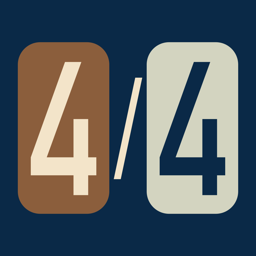
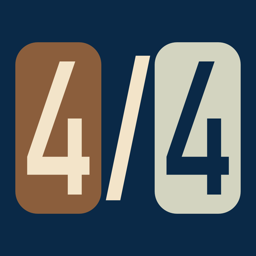
Prepare Metronome Perfect for App Store release
Redraw the icon with a slash matching the 4s, support iOS 18 and newer,
set the home-screen name, declare no non-exempt encryption, and add the
privacy and support pages, store listing text and screenshots.

diff --git a/tools/make-icon.swift b/tools/make-icon.swift
@@ -1,0 +1,69 @@
+// Draws the app icon (light, dark and tinted) into the asset catalog.
+// Run from the project folder: swift tools/make-icon.swift Metronome/Assets.xcassets/AppIcon.appiconset
+
+import AppKit
+
+func color(_ hex: UInt32) -> NSColor {
+    NSColor(srgbRed: CGFloat((hex >> 16) & 0xFF) / 255, green: CGFloat((hex >> 8) & 0xFF) / 255, blue: CGFloat(hex & 0xFF) / 255, alpha: 1)
+}
+
+/// Draws `text` in DIN Alternate, the app's lettering, stretched to `size` and centred in `rect`.
+func glyph(_ text: String, size: CGSize, in rect: CGRect, color c: NSColor) {
+    let font = CTFontCreateWithName("DINAlternate-Bold" as CFString, 400, nil)
+    var unichars = Array(text.utf16), glyphs = [CGGlyph](repeating: 0, count: unichars.count)
+    CTFontGetGlyphsForCharacters(font, &unichars, &glyphs, unichars.count)
+    let path = CTFontCreatePathForGlyph(font, glyphs[0], nil)!
+    let bounds = path.boundingBoxOfPath
+    var transform = CGAffineTransform(translationX: rect.midX - size.width / 2, y: rect.midY - size.height / 2)
+        .scaledBy(x: size.width / bounds.width, y: size.height / bounds.height)
+        .translatedBy(x: -bounds.minX, y: -bounds.minY)
+    let ctx = NSGraphicsContext.current!.cgContext
+    ctx.addPath(path.copy(using: &transform)!)
+    ctx.setFillColor(c.cgColor)
+    ctx.fillPath()
+}
+
+func render(_ name: String, background: UInt32, tileTop: UInt32, glyphTop: UInt32, tileBottom: UInt32, glyphBottom: UInt32, slash: UInt32) {
+    let size = 1024
+    let rep = NSBitmapImageRep(bitmapDataPlanes: nil, pixelsWide: size, pixelsHigh: size, bitsPerSample: 8, samplesPerPixel: 4, hasAlpha: true, isPlanar: false, colorSpaceName: .deviceRGB, bytesPerRow: 0, bitsPerPixel: 0)!
+    NSGraphicsContext.saveGraphicsState()
+    NSGraphicsContext.current = NSGraphicsContext(bitmapImageRep: rep)
+    color(background).setFill()
+    CGRect(x: 0, y: 0, width: size, height: size).fill()
+
+    // Two number tiles with room between them for the slash (y is from the bottom here).
+    let tileWidth: CGFloat = 345
+    let top = CGRect(x: 60, y: 168, width: tileWidth, height: 688)
+    let bottom = CGRect(x: CGFloat(size) - 60 - tileWidth, y: 168, width: tileWidth, height: 688)
+    color(tileTop).setFill()
+    NSBezierPath(roundedRect: top, xRadius: 90, yRadius: 90).fill()
+    color(tileBottom).setFill()
+    NSBezierPath(roundedRect: bottom, xRadius: 90, yRadius: 90).fill()
+    let digit = CGSize(width: 250, height: 534)
+    glyph("4", size: digit, in: top, color: color(glyphTop))
+    glyph("4", size: digit, in: bottom, color: color(glyphBottom))
+
+    // The slash: as thick as the 4s' strokes and a little taller than them, as in a printed time signature.
+    let stroke: CGFloat = 58, height: CGFloat = 580, run: CGFloat = 120
+    let mid = CGPoint(x: CGFloat(size) / 2, y: top.midY)
+    let path = NSBezierPath()
+    path.move(to: CGPoint(x: mid.x - run / 2 - stroke / 2, y: mid.y - height / 2))
+    path.line(to: CGPoint(x: mid.x - run / 2 + stroke / 2, y: mid.y - height / 2))
+    path.line(to: CGPoint(x: mid.x + run / 2 + stroke / 2, y: mid.y + height / 2))
+    path.line(to: CGPoint(x: mid.x + run / 2 - stroke / 2, y: mid.y + height / 2))
+    path.close()
+    color(slash).setFill()
+    path.fill()
+
+    NSGraphicsContext.restoreGraphicsState()
+    // Icons must be opaque.
+    let cg = rep.cgImage!
+    let ctx = CGContext(data: nil, width: size, height: size, bitsPerComponent: 8, bytesPerRow: 0, space: CGColorSpace(name: CGColorSpace.sRGB)!, bitmapInfo: CGImageAlphaInfo.noneSkipLast.rawValue)!
+    ctx.draw(cg, in: CGRect(x: 0, y: 0, width: size, height: size))
+    let out = NSBitmapImageRep(cgImage: ctx.makeImage()!)
+    try! out.representation(using: .png, properties: [:])!.write(to: URL(fileURLWithPath: CommandLine.arguments[1] + "/" + name))
+}
+
+render("AppIcon.png", background: 0x0A2947, tileTop: 0x8B5E3C, glyphTop: 0xF3E4C9, tileBottom: 0xD3D4C0, glyphBottom: 0x0A2947, slash: 0xF3E4C9)
+render("AppIcon-Dark.png", background: 0x061A2E, tileTop: 0x8B5E3C, glyphTop: 0xF3E4C9, tileBottom: 0xD3D4C0, glyphBottom: 0x061A2E, slash: 0xF3E4C9)
+render("AppIcon-Tinted.png", background: 0x000000, tileTop: 0x5C5C5C, glyphTop: 0xFFFFFF, tileBottom: 0xD0D0D0, glyphBottom: 0x000000, slash: 0xFFFFFF)

diff --git a/docs/privacy.html b/docs/privacy.html
@@ -1,0 +1,50 @@
+<!doctype html>
+<html lang="en">
+<head>
+<meta charset="utf-8">
+<meta name="viewport" content="width=device-width, initial-scale=1">
+<title>Metronome Perfect Privacy Policy</title>
+<style>
+  :root { --bg: #0A2947; --text: #F3E4C9; --muted: #D3D4C0; --accent: #8B5E3C; --panel: #123456; }
+  * { box-sizing: border-box; }
+  body { margin: 0; background: var(--bg); color: var(--text); font: 17px/1.6 -apple-system, BlinkMacSystemFont, "Helvetica Neue", Arial, sans-serif; }
+  main { max-width: 680px; margin: 0 auto; padding: 48px 20px 64px; }
+  .app { font-family: "DIN Alternate", "DIN Condensed", -apple-system, sans-serif; font-weight: 700; letter-spacing: .12em; text-transform: uppercase; color: var(--muted); font-size: 14px; margin: 0 0 8px; }
+  h1 { font-size: 34px; line-height: 1.2; margin: 0 0 6px; }
+  .updated { color: var(--muted); font-size: 14px; margin: 0 0 32px; }
+  h2 { font-size: 20px; margin: 32px 0 8px; }
+  p, li { color: var(--text); }
+  ul { padding-left: 22px; }
+  a { color: var(--text); text-decoration-color: var(--accent); text-underline-offset: 3px; text-decoration-thickness: 2px; }
+  .card { background: var(--accent); border-radius: 16px; padding: 18px 22px; margin: 24px 0; }
+  .card p { margin: 0; }
+  footer { margin-top: 48px; color: var(--muted); font-size: 14px; }
+</style>
+</head>
+<body>
+<main>
+<p class="app">Metronome Perfect</p>
+<h1>Privacy Policy</h1>
+<p class="updated">Last updated 1 November 2026</p>
+<div class="card"><p><strong>Metronome Perfect collects no data.</strong> No accounts, no ads, no analytics, no tracking. The app never connects to the internet.</p></div>
+<h2>What stays on your device</h2>
+<ul>
+  <li><strong>Your settings</strong> (tempo, time signature, chosen sound and colour palette) are saved on your device so the app opens the way you left it.</li>
+  <li><strong>Sounds you record</strong> are saved on your device, inside the app. They are included in your device's own backups, like any other app data, but are never sent to me or anyone else.</li>
+</ul>
+<h2>The microphone</h2>
+<p>The app asks for the microphone only when you choose to record your own click sound, and it listens only while you're recording. Nothing is uploaded.</p>
+<h2>Sharing a sound</h2>
+<p>If you tap the share button on one of your sounds, the app creates a small <code>.metrosound</code> file and hands it to the iOS share sheet. It goes only where you send it (for example Messages or AirDrop). Nothing is shared unless you do this yourself.</p>
+<h2>Deleting your data</h2>
+<p>Delete a recorded sound by holding or double-tapping it. Deleting the app removes everything it stored.</p>
+<h2>Children</h2>
+<p>The app collects no information from anyone, including children.</p>
+<h2>Changes</h2>
+<p>If this policy ever changes, the new version will be posted on this page with a new date.</p>
+<h2>Contact</h2>
+<p>Questions? Email <a href="mailto:augustustranter@outlook.com">augustustranter@outlook.com</a>.</p>
+<footer>Made by Augustus Tranter · <a href="mailto:augustustranter@outlook.com">augustustranter@outlook.com</a></footer>
+</main>
+</body>
+</html>

diff --git a/docs/support.html b/docs/support.html
@@ -1,0 +1,44 @@
+<!doctype html>
+<html lang="en">
+<head>
+<meta charset="utf-8">
+<meta name="viewport" content="width=device-width, initial-scale=1">
+<title>Metronome Perfect Support</title>
+<style>
+  :root { --bg: #0A2947; --text: #F3E4C9; --muted: #D3D4C0; --accent: #8B5E3C; --panel: #123456; }
+  * { box-sizing: border-box; }
+  body { margin: 0; background: var(--bg); color: var(--text); font: 17px/1.6 -apple-system, BlinkMacSystemFont, "Helvetica Neue", Arial, sans-serif; }
+  main { max-width: 680px; margin: 0 auto; padding: 48px 20px 64px; }
+  .app { font-family: "DIN Alternate", "DIN Condensed", -apple-system, sans-serif; font-weight: 700; letter-spacing: .12em; text-transform: uppercase; color: var(--muted); font-size: 14px; margin: 0 0 8px; }
+  h1 { font-size: 34px; line-height: 1.2; margin: 0 0 6px; }
+  .updated { color: var(--muted); font-size: 14px; margin: 0 0 32px; }
+  h2 { font-size: 20px; margin: 32px 0 8px; }
+  p, li { color: var(--text); }
+  ul { padding-left: 22px; }
+  a { color: var(--text); text-decoration-color: var(--accent); text-underline-offset: 3px; text-decoration-thickness: 2px; }
+  .card { background: var(--accent); border-radius: 16px; padding: 18px 22px; margin: 24px 0; }
+  .card p { margin: 0; }
+  footer { margin-top: 48px; color: var(--muted); font-size: 14px; }
+</style>
+</head>
+<body>
+<main>
+<p class="app">Metronome Perfect</p>
+<h1>Support</h1>
+<p class="updated">Metronome Perfect for iPhone and iPad</p>
+<div class="card"><p>Something not working, or an idea for the app? Email <a href="mailto:augustustranter@outlook.com?subject=Metronome%20Perfect">augustustranter@outlook.com</a> and I'll get back to you.</p></div>
+<h2>I can't hear the click</h2>
+<p>Turn the volume up with the side buttons. The click plays even with the silent switch on. If you're on a phone call, the metronome stops and you'll need to press START again afterwards.</p>
+<h2>Can it play over my music?</h2>
+<p>Yes. The click mixes over music and video from other apps without stopping them, and keeps going with the screen locked.</p>
+<h2>How do I set a time signature?</h2>
+<p>Tap either number of the time signature to type it in. Turning the time signature on accents the first beat of each bar, and the click follows the note value, so 6/8 clicks eighth notes.</p>
+<h2>How do I record my own sound?</h2>
+<p>Swipe the row of sounds to the end and tap <strong>+</strong>. Clap, click or say "hey!" for the beat, and optionally record a different downbeat. Hold or double-tap a sound to edit, share or delete it.</p>
+<h2>How do I change the colours?</h2>
+<p>Tap the palette button in the top right to cycle through the eight palettes.</p>
+<p><a href="privacy.html">Privacy Policy</a></p>
+<footer>Made by Augustus Tranter · <a href="mailto:augustustranter@outlook.com">augustustranter@outlook.com</a></footer>
+</main>
+</body>
+</html>

diff --git a/Metronome/Metronome.swift b/Metronome/Metronome.swift
@@ -32,16 +32,28 @@ final class Metronome {
         generator = ClickGenerator(sampleRate: format.sampleRate)
         source = AVAudioSourceNode(format: format, renderBlock: generator.makeRenderBlock())
         engine.attach(source)
-        try? engine.connectNode(source, to: engine.mainMixerNode, format: format)
+        if #available(iOS 27, *) {
+            try? engine.connectNode(source, to: engine.mainMixerNode, format: format)
+        } else {
+            engine.connect(source, to: engine.mainMixerNode, format: format)
+        }
 
         let center = NotificationCenter.default
         // A phone call, alarm or Siri takes over the audio: stop and let the UI know.
-        observers.append(center.addObserver(forName: AVAudioSession.didBecomeInactiveNotification, object: session, queue: .main) { [weak self] _ in
+        let interrupted: (Notification) -> Void = { [weak self] _ in
             MainActor.assumeIsolated {
                 self?.stop()
                 self?.onInterruption()
             }
-        })
+        }
+        if #available(iOS 27, *) {
+            observers.append(center.addObserver(forName: AVAudioSession.didBecomeInactiveNotification, object: session, queue: .main, using: interrupted))
+        } else {
+            observers.append(center.addObserver(forName: AVAudioSession.interruptionNotification, object: session, queue: .main) { notification in
+                let type = notification.userInfo?[AVAudioSessionInterruptionTypeKey] as? UInt
+                if type == AVAudioSession.InterruptionType.began.rawValue { interrupted(notification) }
+            })
+        }
         // Plugging in or removing headphones stops the engine; restart it if we were playing.
         observers.append(center.addObserver(forName: .AVAudioEngineConfigurationChange, object: engine, queue: .main) { [weak self] _ in
             MainActor.assumeIsolated {
@@ -97,8 +109,14 @@ final class Metronome {
         let session = AVAudioSession.sharedInstance()
         try? session.setCategory(.playback, options: .mixWithOthers)
         // Activate asynchronously; the synchronous setActive can block the main thread.
-        session.activate { success, error in
-            if !success { print("Failed to activate audio session: \(String(describing: error))") }
+        if #available(iOS 27, *) {
+            session.activate { success, error in
+                if !success { print("Failed to activate audio session: \(String(describing: error))") }
+            }
+        } else {
+            DispatchQueue.global(qos: .userInitiated).async {
+                do { try session.setActive(true) } catch { print("Failed to activate audio session: \(error)") }
+            }
         }
     }
 

diff --git a/appstore/AppStore.md b/appstore/AppStore.md
@@ -1,0 +1,79 @@
+# App Store listing: Metronome Perfect
+
+Everything to paste into App Store Connect. Character limits are in brackets.
+
+## App information
+
+| Field | Value |
+|---|---|
+| Name [30] | Metronome Perfect |
+| Subtitle [30] | Tempo, beats & time signatures |
+| Bundle ID | com.atranter.Metronome |
+| Primary category | Music |
+| Secondary category | Education |
+| Content rights | Does not contain, show or access third-party content |
+| Age rating | 4+ (answer **None** / **No** to every question) |
+| Price | Free, all countries |
+| Copyright | 2026 Augustus Tranter |
+
+## URLs
+
+| Field | Value |
+|---|---|
+| Support URL | https://gooseygus.github.io/metronome_app/support.html |
+| Privacy Policy URL | https://gooseygus.github.io/metronome_app/privacy.html |
+| Marketing URL | (leave blank) |
+
+## App Privacy
+
+Choose **"No, we do not collect data from this app."** The app makes no network connections; settings and recorded sounds stay on the device.
+
+## Promotional text [170]
+
+One screen, no ads, no accounts. Set any tempo from 1 to 300 BPM, pick from thirteen click sounds, or record your own.
+
+## Description [4000]
+
+A metronome that keeps everything on one screen. No ads, no accounts, no settings pages: open it, set a tempo, press START.
+
+ROCK-SOLID TIMING
+The click is generated sample by sample on the audio thread, so it never drifts, and tempo changes apply the instant you make them.
+
+SET THE TEMPO YOUR WAY
+• Anywhere from 1 to 300 BPM
+• Drag the slider, or hold + and − to sweep
+• Eight one-tap presets
+• Tap tempo: tap along and it finds your speed
+• Or type the exact number on the keypad
+
+TIME SIGNATURES
+Any number of beats per bar, over 1, 2, 4, 8, 16, 32 or 64. The first beat of every bar is accented, and the click follows the note value, so 6/8 clicks eighth notes.
+
+THIRTEEN CLICK SOUNDS
+Classic, Wood, Woodblock, Jam Block, Agogo, Shaker, Electric, Clave, Marimba, Snap, Clap, Cowbell and Hi-hat, including real recorded percussion.
+
+RECORD YOUR OWN
+Clap, click or shout "hey!" and use it as your click, with its own downbeat if you like. Keep up to ten, and share them with friends.
+
+PLAYS ALONG WITH YOUR MUSIC
+Mixes over music and video from other apps without stopping them, keeps going in the background and with the screen locked, and stops cleanly for phone calls.
+
+MADE TO LOOK AT
+Eight colour palettes, a live metronome that swings in time with the click, and a layout made for iPhone and iPad, in portrait and landscape.
+
+## Keywords [100]
+
+bpm,tempo,beat,click,tap,rhythm,drum,practice,music,piano,guitar,band,timing,count,signature,bar
+
+## Screenshots
+
+- 6.9" iPhone: `appstore/screenshots/iphone/`
+- 13" iPad: `appstore/screenshots/ipad/`
+
+## App Review notes
+
+No sign-in is needed. The microphone is used only to record a custom click sound: swipe the row of sounds to the end and tap +. The app makes no network requests.
+
+## Export compliance
+
+Already answered in Info.plist (`ITSAppUsesNonExemptEncryption = NO`), so no question appears on upload.

diff --git a/README.md b/README.md
@@ -53,6 +53,7 @@ To run on your own device, choose your Apple ID under *Signing & Capabilities*, 
 | `Keypad.swift` | The pop-up number pad and note-value picker |
 | `Palette.swift` | The colour palettes |
 | `Wobble.swift`, `Dancer.swift` | You'll see |
+| `tools/make-icon.swift` | Draws the app icon: `swift tools/make-icon.swift Metronome/Assets.xcassets/AppIcon.appiconset` |
 
 ## Easter egg
 
